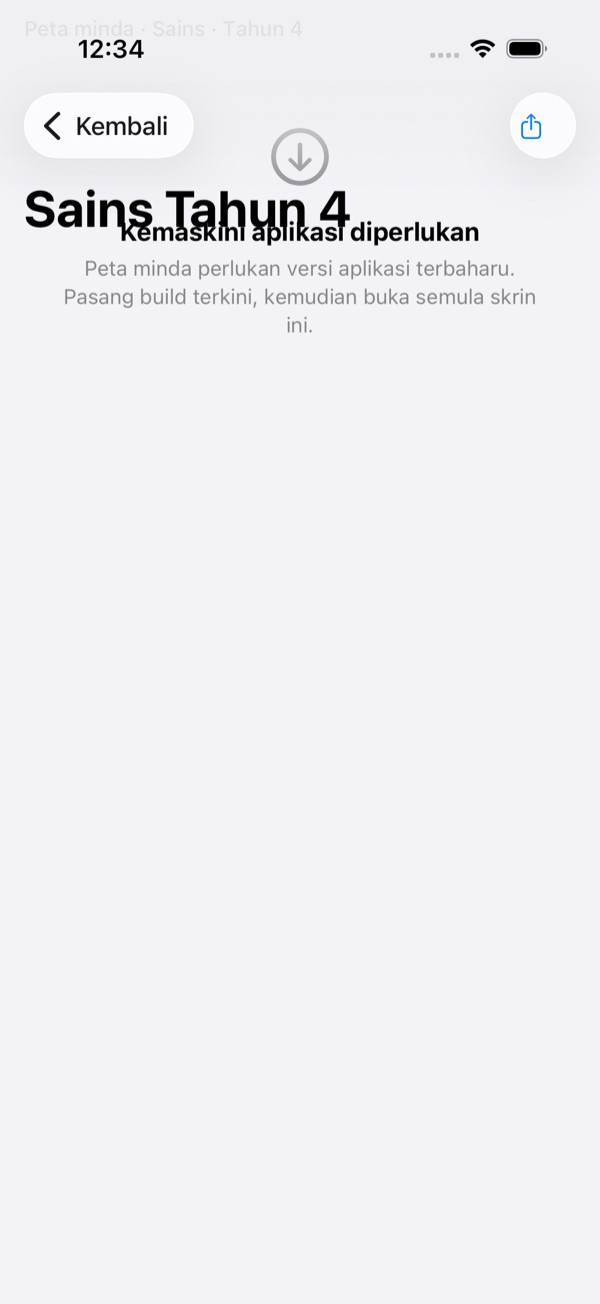
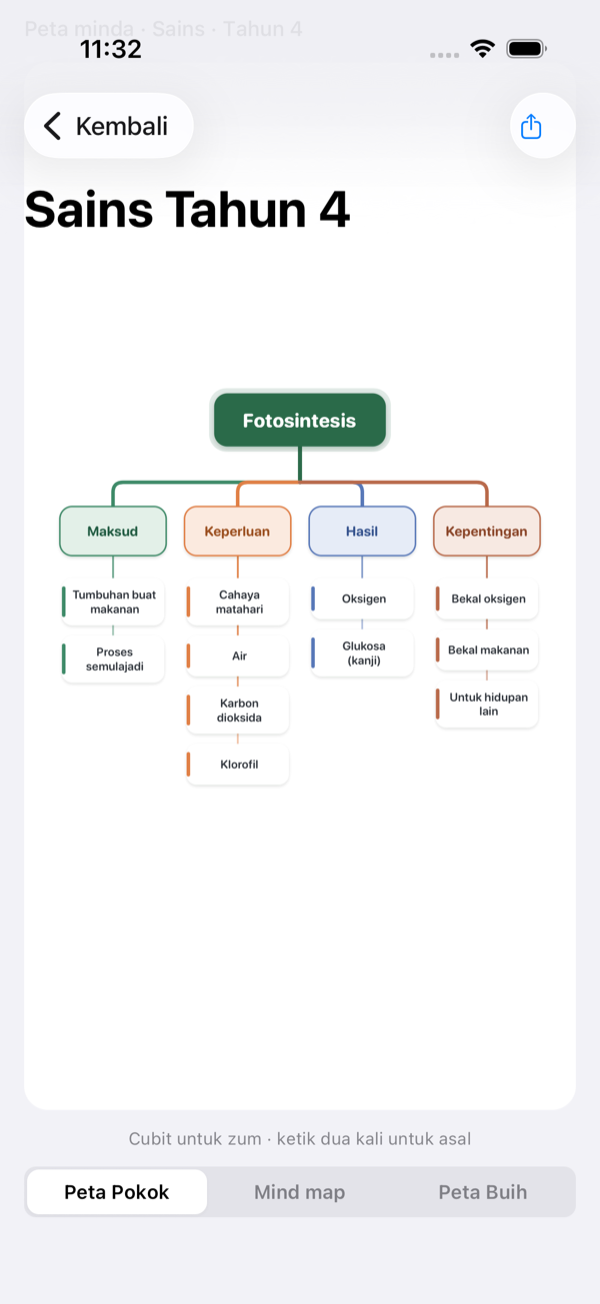
Update: real Peta Minda map + loading/error/fresh-spotlight states (31 screens)

diff --git a/index.html b/index.html
@@ -65,21 +65,21 @@
     <p class="sub">A screen-by-screen record of the Cigu teacher app exactly as it stands today —
       every screen captured as a real iOS Simulator screenshot, signed-in and signed-out.</p>
     <div class="pills">
-      <span class="pill"><b>28</b> screens</span>
+      <span class="pill"><b>31</b> screens</span>
       <span class="pill">Real device captures</span>
       <span class="pill">Light mode (app is light-only today)</span>
       <span class="pill">Updated 28 June 2026</span>
     </div>
     <div class="note">
       These are <b>real captures of the live app</b>, not redesign mockups. All teacher data is seeded /
-      fictional (“Cikgu Aisyah”). Two states are noted honestly: <b>Peta Minda</b> shows the genuine
-      “update required” gate because this developer build can’t load the interactive map, and
-      <b>Billing return</b> verifies and redirects too fast to freeze. Everything else is the real screen.
+      fictional (“Cikgu Aisyah”). One screen is best-effort: <b>Billing return</b> verifies and redirects
+      too fast to freeze. Brand-new-teacher <b>empty states</b> aren’t shown (the populated states are).
+      Everything else is the real screen — including the interactive Peta Minda map and the loading / error states.
     </div>
   </header>
 
   <nav class="index">
-    <h2>All 28 screens</h2>
+    <h2>All 31 screens</h2>
     <div class="idx-cols">
   <div class="idx-group">
     <a class="idx-sec" href="#onboarding-auth">Onboarding & Sign-in</a>
@@ -107,7 +107,7 @@
   </div>
   <div class="idx-group">
     <a class="idx-sec" href="#rph-detail">RPH Detail & Bahan mengajar</a>
-    <a class="idx-screen" href="#screen-8"><span>08</span> RPH Detail</a><a class="idx-screen" href="#screen-18"><span>18</span> Bahan · Kuiz</a><a class="idx-screen" href="#screen-19"><span>19</span> Bahan · Slaid</a><a class="idx-screen" href="#screen-20"><span>20</span> Bahan · Peta Minda</a>
+    <a class="idx-screen" href="#screen-8"><span>08</span> RPH Detail</a><a class="idx-screen" href="#screen-18"><span>18</span> Bahan · Kuiz</a><a class="idx-screen" href="#screen-19"><span>19</span> Bahan · Slaid</a><a class="idx-screen" href="#screen-20"><span>20</span> Bahan · Peta Minda</a><a class="idx-screen" href="#screen-32"><span>32</span> RPH · Fresh spotlight</a>
   </div>
   <div class="idx-group">
     <a class="idx-sec" href="#detail-exec">Class detail · Fragment · Teaching mode</a>
@@ -116,6 +116,10 @@
   <div class="idx-group">
     <a class="idx-sec" href="#akaun">Akaun & Langganan</a>
     <a class="idx-screen" href="#screen-15"><span>15</span> Naik taraf (Paywall)</a><a class="idx-screen" href="#screen-12"><span>12</span> Persetujuan (Consent)</a><a class="idx-screen" href="#screen-13"><span>13</span> Eksport data</a><a class="idx-screen" href="#screen-14"><span>14</span> Padam akaun</a><a class="idx-screen" href="#screen-17"><span>17</span> Billing return</a>
+  </div>
+  <div class="idx-group">
+    <a class="idx-sec" href="#states">States — loading & error</a>
+    <a class="idx-screen" href="#screen-29"><span>29</span> Generating (loading)</a><a class="idx-screen" href="#screen-30"><span>30</span> Load error</a>
   </div>
   <div class="idx-group">
     <a class="idx-sec" href="#jadual">Jadual (Timetable)</a>
@@ -339,8 +343,17 @@
     <div class="meta">
       <div class="num">20</div>
       <h3>Bahan · Peta Minda</h3>
-      <div class="tags"><span class="tag" style="--tc:#1f3d2f">Signed in</span><span class="tag" style="--tc:#b3261e">OTA gate</span></div>
-      <p>The mind-map screen. On this developer build the interactive map can’t load, so it shows the real “Kemaskini aplikasi diperlukan” update-gate. On a full release binary it renders an interactive d3 map.</p>
+      <div class="tags"><span class="tag" style="--tc:#1f3d2f">Signed in</span><span class="tag" style="--tc:#6b3fa0">AI output</span></div>
+      <p>An auto-generated interactive mind-map (d3 in a WebView) — the topic at the centre, colour-coded branches with sub-nodes, pinch-to-zoom, and a “Peta Pokok / Mind map / Peta Buih” style switcher.</p>
+    </div>
+  </article>
+  <article class="card" id="screen-32">
+    <div class="frame"><img loading="lazy" src="screens/32-fresh-spotlight.png" alt="RPH · Fresh spotlight"></div>
+    <div class="meta">
+      <div class="num">32</div>
+      <h3>RPH · Fresh spotlight</h3>
+      <div class="tags"><span class="tag" style="--tc:#1f3d2f">Signed in</span></div>
+      <p>The moment a freshly generated RPH lands — a “RPH SIAP · Sambung terus — buat kuiz?” spotlight that nudges the teacher straight into making materials.</p>
     </div>
   </article></div>
   </section>
@@ -430,6 +443,31 @@
     </div>
   </article></div>
   </section>
+  <section class="sec" id="states">
+    <div class="sec-head">
+      <h2>States — loading & error</h2>
+      <p>Representative non-happy states, captured live.</p>
+    </div>
+    <div class="grid">
+  <article class="card" id="screen-29">
+    <div class="frame"><img loading="lazy" src="screens/29-generate-loading.png" alt="Generating (loading)"></div>
+    <div class="meta">
+      <div class="num">29</div>
+      <h3>Generating (loading)</h3>
+      <div class="tags"><span class="tag" style="--tc:#1f3d2f">Signed in</span><span class="tag" style="--tc:#0a66c2">Loading</span></div>
+      <p>Right after “Jana RPH” — the new plan builds with content-shaped skeletons and a “Menyusun RPH…” status while each section generates.</p>
+    </div>
+  </article>
+  <article class="card" id="screen-30">
+    <div class="frame"><img loading="lazy" src="screens/30-detail-error.png" alt="Load error"></div>
+    <div class="meta">
+      <div class="num">30</div>
+      <h3>Load error</h3>
+      <div class="tags"><span class="tag" style="--tc:#b3261e">Sad path</span><span class="tag" style="--tc:#b3261e">Error</span></div>
+      <p>When a screen can’t load its data (here, an expired session) — a clear red “Tidak dapat dimuatkan” banner with a “Cuba lagi” retry.</p>
+    </div>
+  </article></div>
+  </section>
   <section class="sec" id="jadual">
     <div class="sec-head">
       <h2>Jadual (Timetable)</h2>
@@ -448,7 +486,7 @@
   </section>
 
   <footer>
-    Cigu (JASA) mobile app · current-state catalog · 28 screens · updated 28 June 2026.<br>
+    Cigu (JASA) mobile app · current-state catalog · 31 screens · updated 28 June 2026.<br>
     Captured on iOS Simulator (iPhone 17 Pro) from the live development build. Previews are screenshots, not interactive.
     <br><br><a class="back" href="#">↑ Back to top</a>
   </footer>